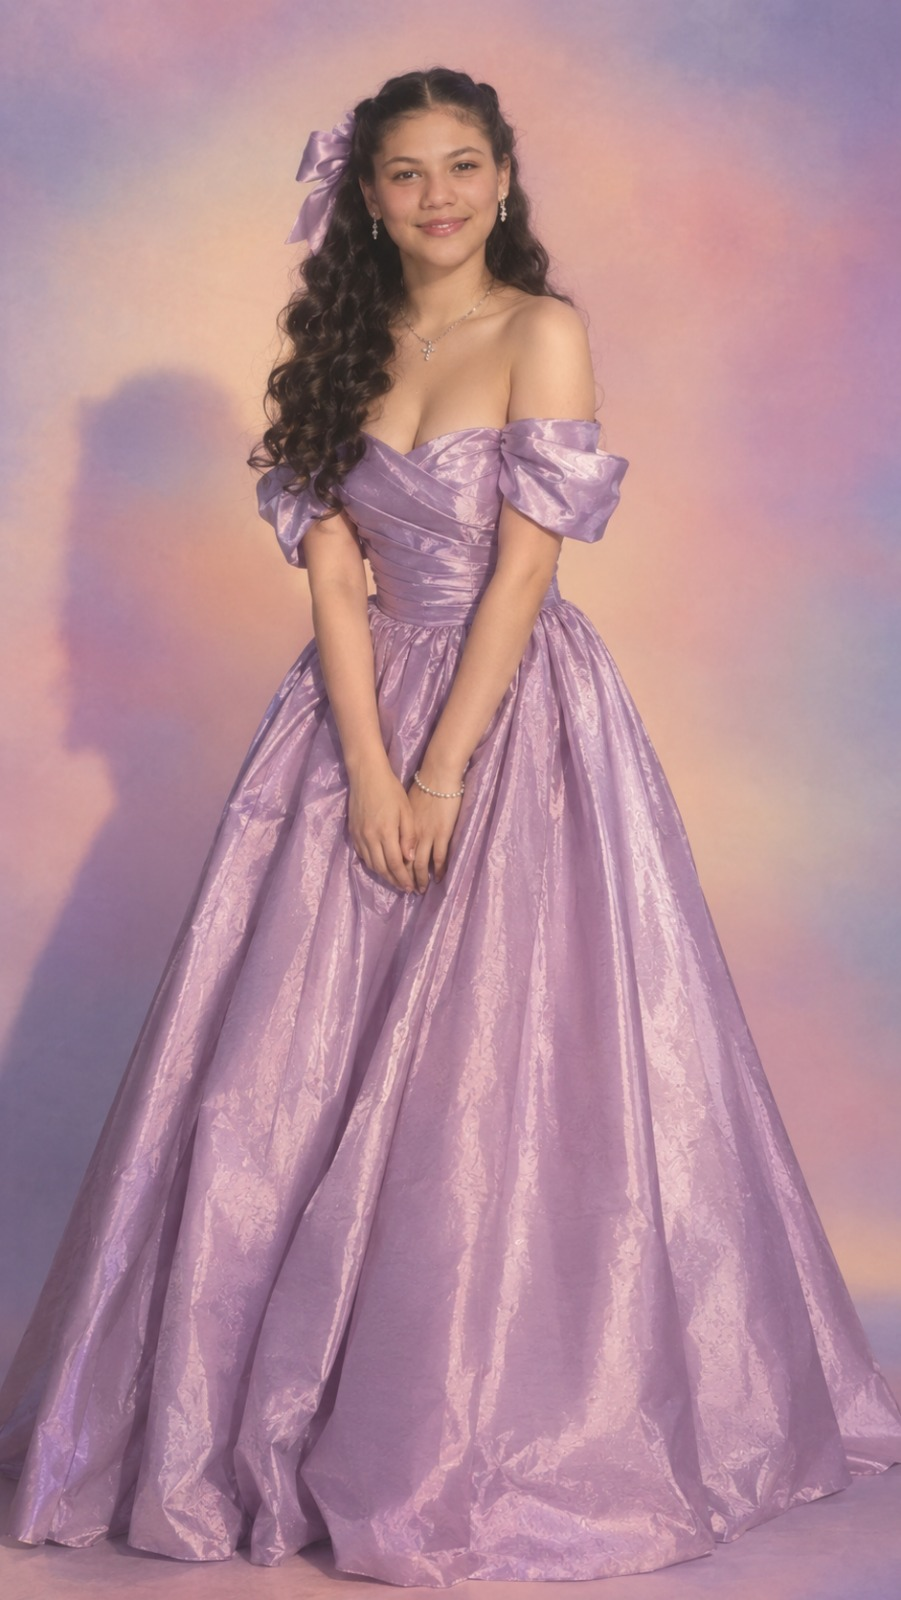
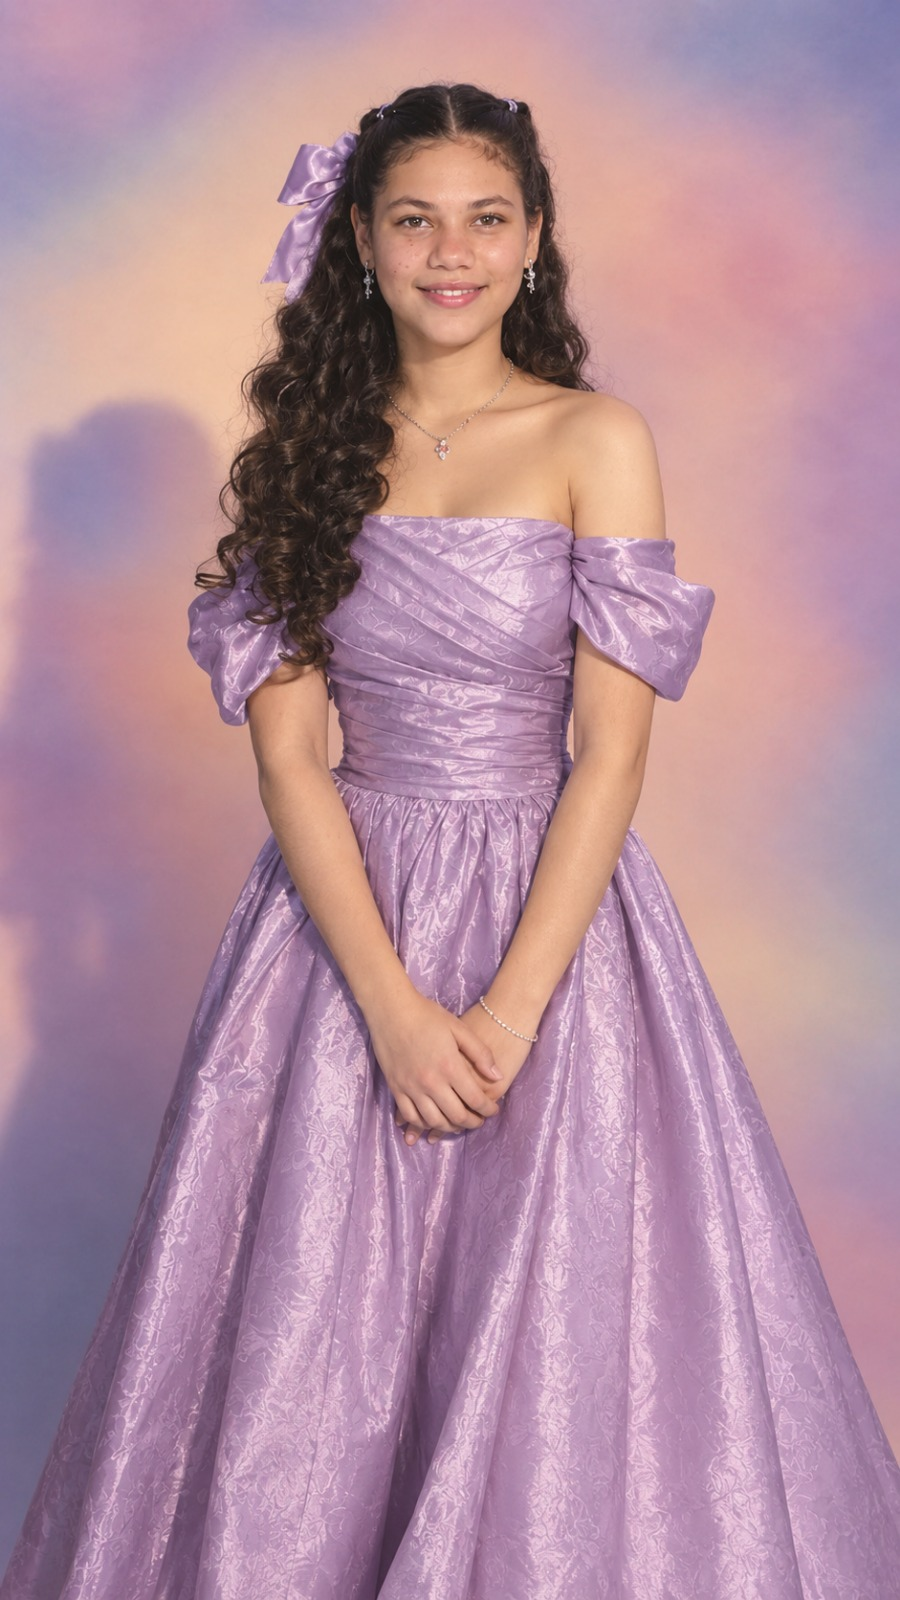
update: ajustes de tamaño de la imagen para que se vea más compacta en version movil

diff --git a/index.html b/index.html
@@ -1,4 +1,4 @@
-<!DOCTYPE html>
+  <!DOCTYPE html>
 <html lang="es">
 <head>
 <meta charset="UTF-8">
@@ -11,7 +11,7 @@
   body { font-family:Georgia,"Times New Roman",serif; background:radial-gradient(circle at 10% 10%,rgba(164,126,215,.25),transparent 30%),linear-gradient(135deg,#e6d8fa,#f6efff 52%,#dfcef6); color:var(--text); padding:28px; }
   .invitation { width:min(1400px,100%); margin:0 auto; display:grid; grid-template-columns:minmax(360px,44%) 1fr; min-height:calc(100vh - 56px); background:white; border-radius:32px; overflow:hidden; box-shadow:0 22px 70px rgba(84,56,116,.22); }
   .photo-panel { position:relative; min-height:720px; background:#cbd9ee; overflow:hidden; }
-  .photo-panel img { width:100%; height:100%; min-height:720px; object-fit:cover; object-position:center center; display:block; }
+  .photo-panel img { width:100%; height:100%; min-height:720px; object-fit:cover; object-position:center 18%; display:block; max-width:100%; }
   .content { padding:66px clamp(34px,5vw,78px) 48px; display:flex; flex-direction:column; justify-content:center; text-align:center; background:linear-gradient(180deg,#fff 0%,#fff 78%,#fcfaff 100%); }
   .eyebrow { color:var(--purple); letter-spacing:.34em; font-size:clamp(15px,1.5vw,21px); font-weight:700; margin-bottom:12px; }
   h1 { margin:0; color:var(--purple); font-size:clamp(43px,5vw,72px); line-height:.98; font-weight:700; }
@@ -26,7 +26,7 @@
   .number { color:var(--purple); font-size:clamp(28px,3vw,43px); line-height:1; font-weight:700; } .label { margin-top:7px; color:#6f6677; font-size:12px; letter-spacing:.08em; font-weight:700; }
   .whatsapp { width:min(760px,100%); margin:0 auto; border:0; border-radius:15px; background:var(--green); color:white; padding:17px 22px; font-family:Georgia,"Times New Roman",serif; font-size:clamp(18px,1.7vw,23px); font-weight:700; cursor:pointer; box-shadow:0 8px 22px rgba(32,212,95,.24); }
   .whatsapp:hover { filter:brightness(.96); } .note { margin:13px auto 0; font-size:14px; line-height:1.45; color:#81768a; }
-  @media (max-width:850px) { body{padding:12px}.invitation{grid-template-columns:1fr;min-height:auto;border-radius:24px}.photo-panel{min-height:0;height:auto;aspect-ratio:1153/1536}.photo-panel img{min-height:0;height:100%;object-fit:cover}.content{padding:42px 20px 36px}.eyebrow{letter-spacing:.24em}.detail{font-size:16px}.countdown{gap:7px}.time-box{padding:13px 4px 10px} }
+  @media (max-width:850px) { body{padding:12px}.invitation{grid-template-columns:1fr;min-height:auto;border-radius:24px}.photo-panel{min-height:0;height:auto;aspect-ratio:3/4}.photo-panel img{min-height:0;height:100%;width:100%;object-fit:cover;object-position:center 20%}.content{padding:42px 20px 36px}.eyebrow{letter-spacing:.24em}.detail{font-size:16px}.countdown{gap:7px}.time-box{padding:13px 4px 10px} }
   @media (max-width:430px) { .content{padding-left:14px;padding-right:14px}.detail{padding:10px 12px;border-left-width:5px}.quote{font-size:16px}.label{font-size:10px} }
 </style>
 </head>
